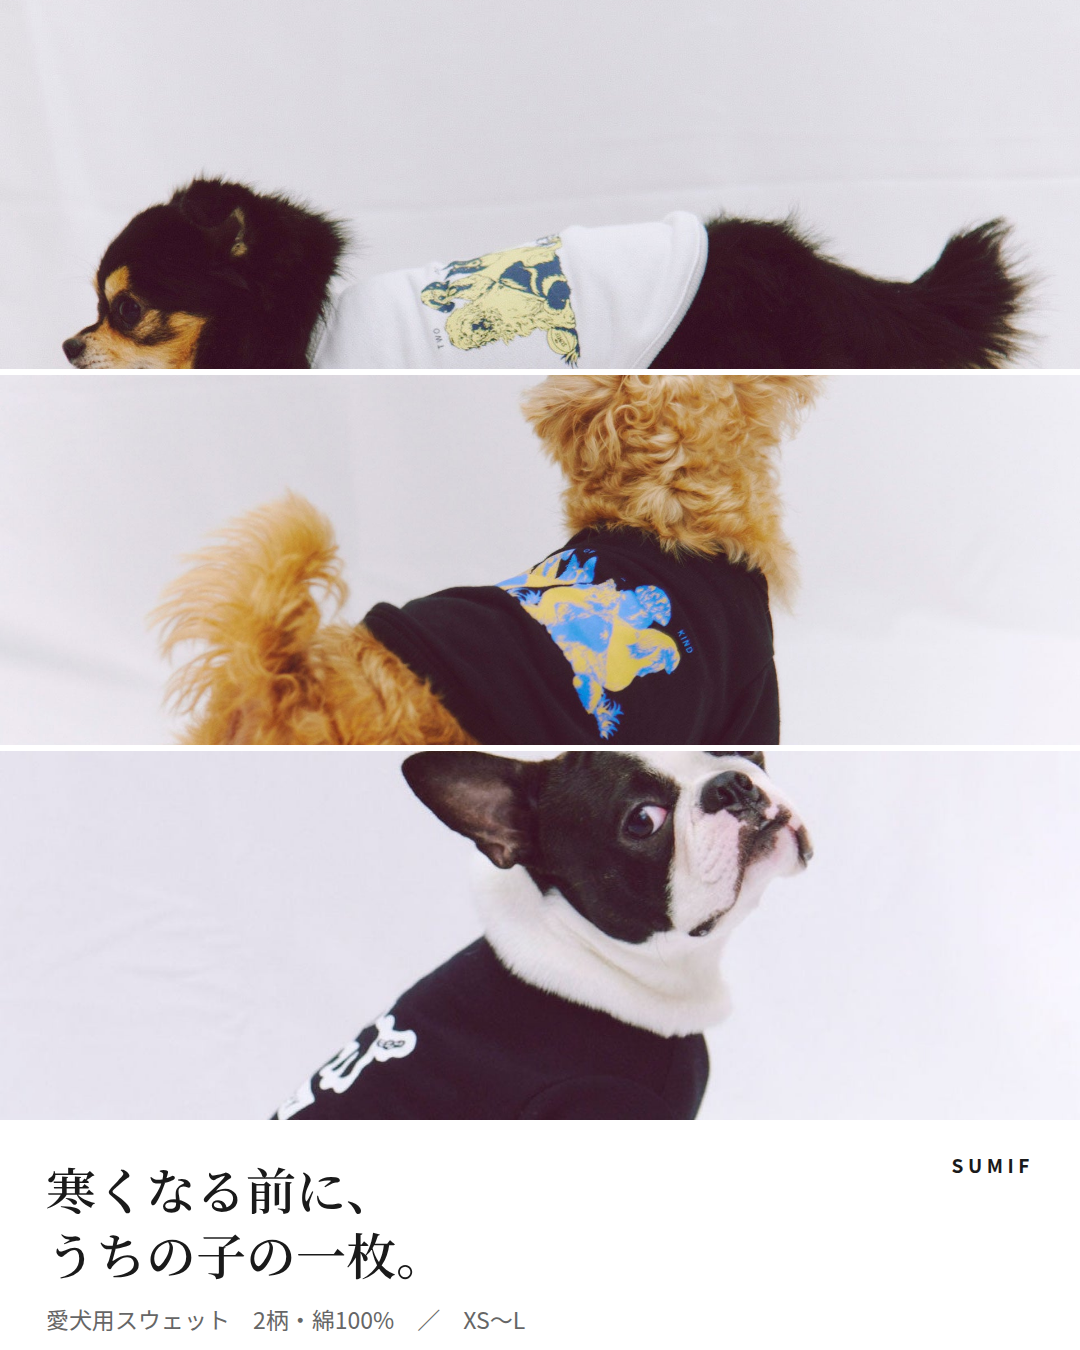
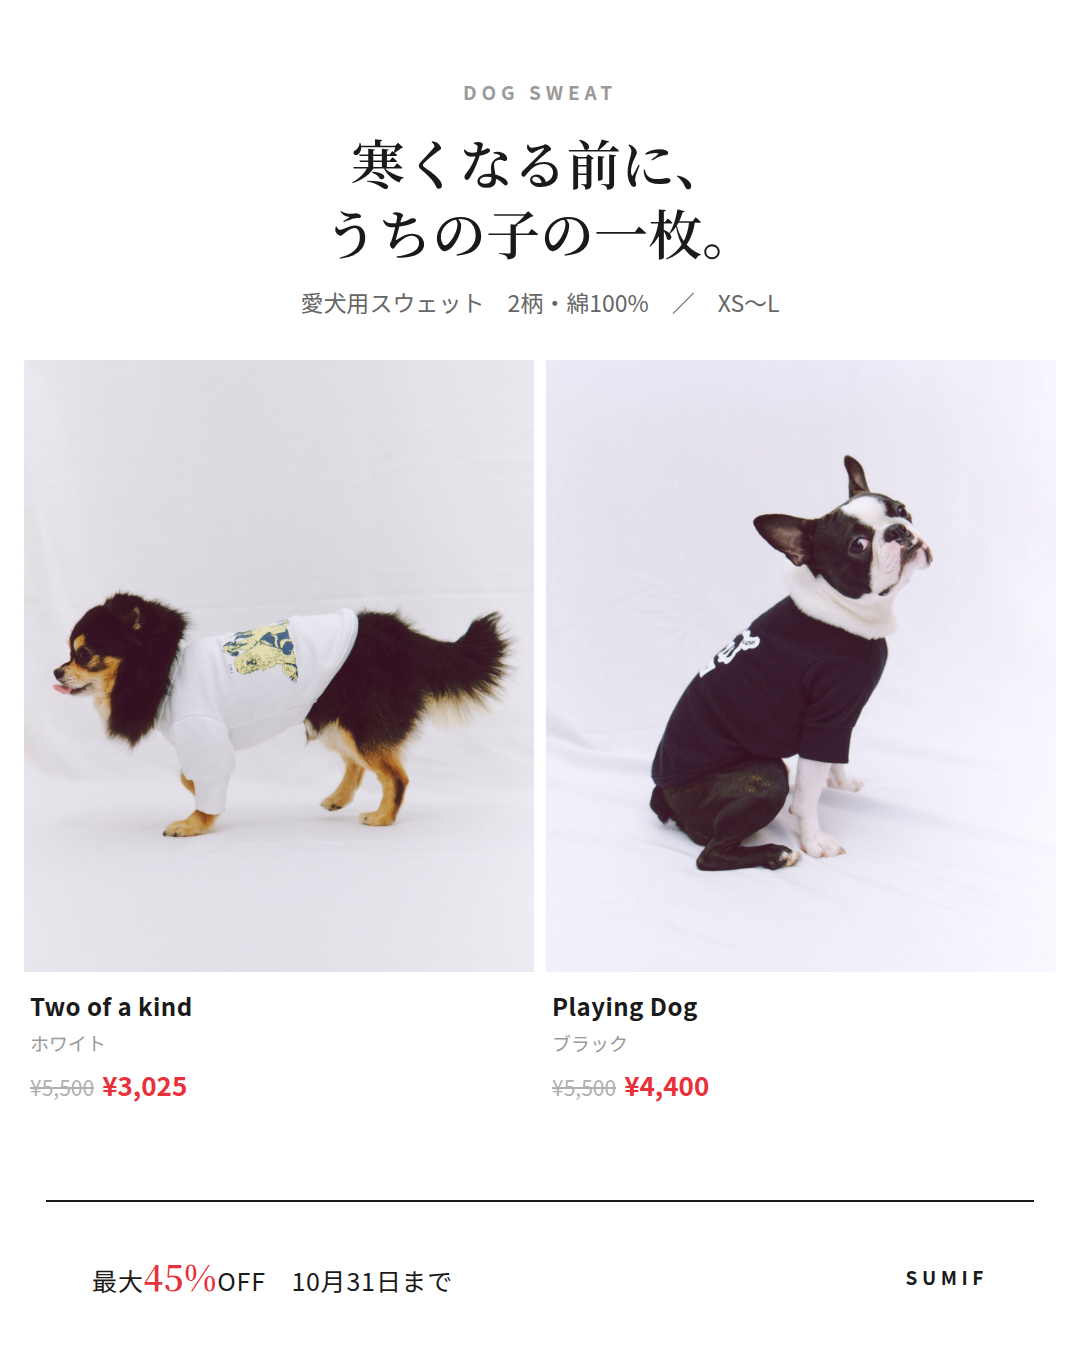
愛犬用スウェット投稿の1枚目を作り直し(服と犬が切れる問題)
ユーザー指摘「写りが微妙。きちんと洋服写ってないし、犬も微妙なのある」。

原因: 元写真がすべて縦長(0.83)で、4:5の枠で分割すると
どのコマも極端な縦横比になり服か犬が切れる。
またプードルのカットは商品メディアを全点確認した結果、
背面からの1枚しかなく顔が写っていない。

- 1枚目を「上に見出し＋下に2枚(object-fit: contain)」に変更。
  白ホリ撮影なので背景の白とキャンバスの白が馴染み、全身を切らずに入る
- 余白は商品名と価格、下にセール情報を置いて埋めた
- プードルを外し、Playing Dog は R_IMG_3610(座ったボストンテリアの横から)に差し替え
- レイアウトを2回やり直した経緯を docs に記録

Claude-Session: https://claude.ai/code/session_015kw7YALnaRAD4UJPNcrGdf

diff --git a/docs/data/instagram-2026-10/post-dogsweat/sw.html b/docs/data/instagram-2026-10/post-dogsweat/sw.html
@@ -19,10 +19,28 @@ body{font-family:"Noto Sans JP",sans-serif;background:#999;color:#1a1a1a}
 .brand.d{color:#1a1a1a;text-shadow:none}
 
 /* 1枚目コラージュ */
-.grid{display:grid;grid-template-rows:repeat(3,1fr);gap:6px;position:absolute;inset:0 0 230px 0}
-.p{position:relative;overflow:hidden}
-.p img{width:100%;height:100%;object-fit:cover;display:block}
-.pa{grid-row:1/3}
+/* 縦長(0.83)の写真を4:5の枠で分割すると服が切れるため、
+   1枚目だけは contain で全身を入れる。白ホリ撮影なので背景は白のまま馴染む。 */
+.hd1{position:absolute;left:0;right:0;top:0;padding:78px 56px 0;text-align:center}
+.hd1 .bk{font-size:19px;letter-spacing:.26em;color:#9a9a9a;font-weight:700}
+.hd1 h2{font-family:"Noto Serif JP",serif;font-size:54px;font-weight:600;line-height:1.3;margin-top:22px}
+.hd1 p{font-size:23px;line-height:1.7;color:#666;margin-top:16px}
+.grid{position:absolute;inset:360px 0 150px 0;display:grid;grid-template-columns:1fr 1fr;
+      gap:12px;align-items:start;padding:0 24px}
+.ft1{position:absolute;left:0;right:0;bottom:0;height:150px;padding:0 46px;
+     display:flex;align-items:center;justify-content:space-between;border-top:2px solid #1a1a1a;
+     margin:0 46px;width:calc(100% - 92px)}
+.ft1 .a{font-size:25px;letter-spacing:.03em}
+.ft1 .a b{font-family:"Noto Serif JP",serif;font-size:34px;color:#e8313a}
+.ft1 .b{font-size:19px;letter-spacing:.24em;font-weight:700}
+.p{position:relative}
+.p img{width:100%;height:auto;object-fit:contain;display:block}
+.p .lb{margin-top:16px;padding:0 6px}
+.p .lb b{display:block;font-size:24px;font-weight:700;letter-spacing:.02em}
+.p .lb small{display:block;font-size:19px;color:#9a9a9a;margin-top:6px}
+.p .lb .pr{display:block;margin-top:10px;font-size:21px;font-variant-numeric:tabular-nums}
+.p .lb .pr s{color:#b0b0b0;margin-right:8px}
+.p .lb .pr em{font-style:normal;color:#e8313a;font-weight:700;font-size:26px}
 .cap{position:absolute;left:0;right:0;bottom:0;height:230px;padding:36px 46px}
 .cap h2{font-family:"Noto Serif JP",serif;font-size:50px;font-weight:600;line-height:1.3}
 .cap p{font-size:23px;line-height:1.7;color:#666;margin-top:14px}
@@ -56,15 +74,22 @@ body{font-family:"Noto Sans JP",sans-serif;background:#999;color:#1a1a1a}
 
 <!-- 1 表紙 -->
 <div class="v" id="s1">
-  <div class="grid">
-    <div class="p"><img src="br_chihuahua.jpg" style="object-position:center 34%"></div>
-    <div class="p"><img src="br_poodle.jpg" style="object-position:center 32%"></div>
-    <div class="p"><img src="br_boston.jpg" style="object-position:center 34%"></div>
-  </div>
-  <div class="brand d" style="right:46px;top:auto;bottom:172px">SUMIF</div>
-  <div class="cap">
+  <div class="hd1">
+    <div class="bk">DOG SWEAT</div>
     <h2>寒くなる前に、<br>うちの子の一枚。</h2>
     <p>愛犬用スウェット　2柄・綿100%　／　XS〜L</p>
+  </div>
+  <div class="grid">
+    <div class="p"><img src="br_chihuahua.jpg">
+      <div class="lb"><b>Two of a kind</b><small>ホワイト</small>
+      <span class="pr"><s>¥5,500</s><em>¥3,025</em></span></div></div>
+    <div class="p"><img src="pd_b_side.jpg">
+      <div class="lb"><b>Playing Dog</b><small>ブラック</small>
+      <span class="pr"><s>¥5,500</s><em>¥4,400</em></span></div></div>
+  </div>
+  <div class="ft1">
+    <div class="a">最大<b>45%</b>OFF　10月31日まで</div>
+    <div class="b">SUMIF</div>
   </div>
 </div>
 

diff --git a/docs/instagram-post-dogsweat-2026-10-06.md b/docs/instagram-post-dogsweat-2026-10-06.md
@@ -35,10 +35,24 @@
 | 5 | `05-size.png` | 体重の目安 XS〜L |
 | 6 | `06-summary.png` | 最大45%OFF・10月31日まで・**愛犬用のみ**の明記 |
 
-### レイアウトの判断
+### 1枚目のレイアウト（2回やり直した）
 
-**1枚目は当初「左に1頭＋右に2頭」で組んだが、縦長セルだと横向きの犬の頭が切れた。**
-→ **横3段**に変更。側面から撮った犬は横長のコマが合う。
+| 案 | 結果 |
+|---|---|
+| 左に1頭＋右に2頭 | ❌ 縦長セルで横向きの犬の**頭が切れた** |
+| 横3段（3頭） | ❌ 服が切れ、プードルは**後ろ向きで顔が見えない**。ユーザー指摘「写りが微妙」 |
+| **上に見出し＋下に2枚（`object-fit: contain`）** | ✅ **採用** |
+
+**原因**: 元写真はすべて縦長（1080:1300 前後 = 0.83）。
+これを4:5の枠で分割すると、どのコマも極端な縦横比になり、服か犬のどちらかが切れる。
+
+**解決**: 1枚目だけ `object-fit: contain` で**全身を切らずに入れる**。
+白ホリのスタジオ撮影なので、背景の白とキャンバスの白が馴染んで違和感がない。
+余白が出るぶんは、**見出しを上・商品名と価格を写真の下**に置いて埋めた。
+
+**プードルは外した。** 商品メディアを全点確認したところ、
+プードルのカットは `R_IMG_3512`（背面からの着用写真）のみで顔が写っていない。
+代わりに Playing Dog の **`R_IMG_3610`（座ったボストンテリアの横から）** を採用。
 
 写真はすべて白ホリのスタジオ撮影なので、**白文字のSUMIFが見えなかった**。黒に変更。
 
